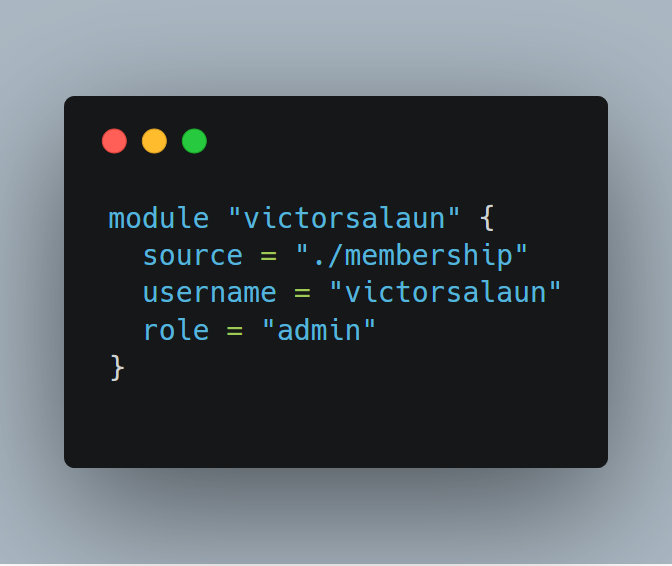
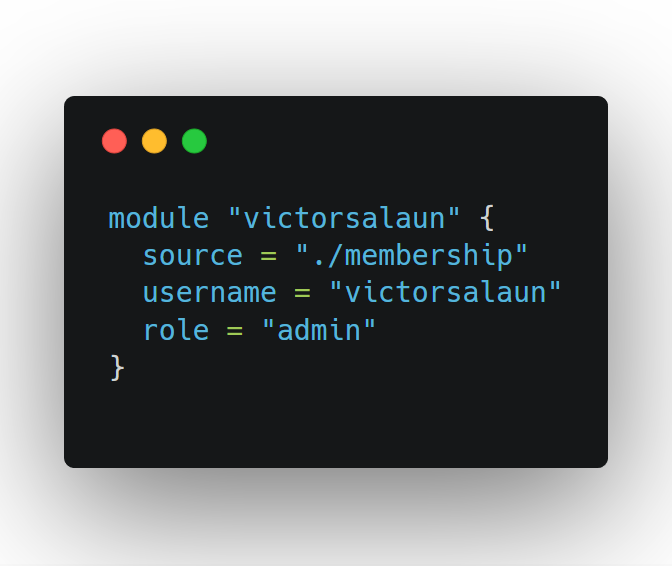
add images to README

diff --git a/README.md b/README.md
@@ -16,6 +16,10 @@ Le rôle n'est pas obligatoire si la personne est un membre ordinaire.
 
 Créer un fichier de configuration Terraform au nom de la personne, exemple `softeamouest-terraform-github-organization.tf` dans le dossier `repositories`
 
+<p align="center">
+    <img src="https://raw.githubusercontent.com/SofteamOuest/softeamouest-terraform-github-organization/master/docs/softeamouest-terraform-github-organization.tf.png" width="50%" height="50%" title="softeamouest-terraform-github-organization.tf">
+</p>
+
 ## Usage 
 
     terraform init
